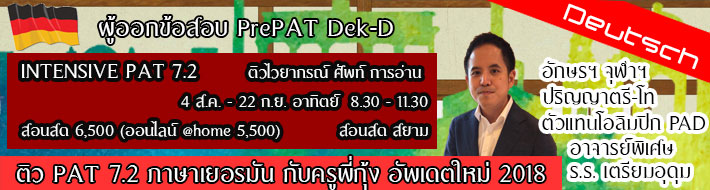
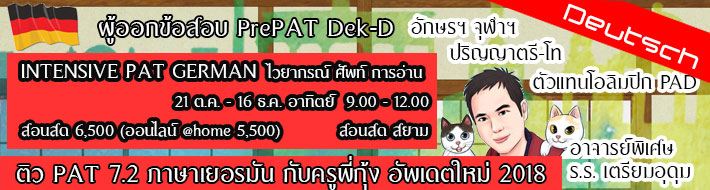
golf

diff --git a/courses.php b/courses.php
@@ -86,16 +86,16 @@
 				<div class="maincol_3"> <!-- schedule --> 
 					
                     
-                    <a href="images/course/PAT_2018_April.png" target="blank"><img src="images/button_ready_sum.png" /></a>
-                    <!-- PRINT --><a href="images/course/PAT_2018_April.png" target="blank"><img src="images/button_print.png" /></a>
+                    <a href="images/wait.gif" target="blank"><img src="images/button_summer_wait.png" /></a>
+                    <!-- PRINT --><a href="images/wait.gif" target="blank"><img src="images/button_print.png" /></a>
                     
                     <a href="images/course/PAT_2018_01.png" target="blank"><img src="images/button_schedule_opensem1.png" /></a>
                     <!-- PRINT --><a href="images/course/PAT_2018_01.png" target="blank"><img src="images/button_print.png" /></a>
                     
                    
                     
-                    <a href="images/wait.gif" target="blank"><img src="images/button_oct_wait.png" /></a>
-                    <!-- PRINT --><a href="images/wait.gif" target="blank"><img src="images/button_print.png" /></a>
+                    <a href="images/course/PAT_2018_01.png" target="blank"><img src="images/button_schedule_openoct.png" /></a>
+                    <!-- PRINT --><a href="images/course/PAT_2018_01.png" target="blank"><img src="images/button_print.png" /></a>
 
                    
                     <a href="images/wait.gif" target="blank"><img src="images/button_sem2_wait.png" /></a>
@@ -139,16 +139,16 @@
 				
                 <div class="maincol_3"> <!-- schedule --> 
 					
-                    <a href="images/course/PAT_2018_April.png" target="blank"><img src="images/button_ready_sum.png" /></a>
-                    <!-- PRINT --><a href="images/course/PAT_2018_April.png" target="blank"><img src="images/button_print.png" /></a>
+                     <a href="images/wait.gif" target="blank"><img src="images/button_summer_wait.png" /></a>
+                    <!-- PRINT --><a href="images/wait.gif" target="blank"><img src="images/button_print.png" /></a>
                     
                     <a href="images/course/PAT_2018_01.png" target="blank"><img src="images/button_schedule_opensem1.png" /></a>
                     <!-- PRINT --><a href="images/course/PAT_2018_01.png" target="blank"><img src="images/button_print.png" /></a>
                     
                    
                     
-                    <a href="images/wait.gif" target="blank"><img src="images/button_oct_wait.png" /></a>
-                    <!-- PRINT --><a href="images/wait.gif" target="blank"><img src="images/button_print.png" /></a>
+                    <a href="images/course/PAT_2018_01.png" target="blank"><img src="images/button_schedule_openoct.png" /></a>
+                    <!-- PRINT --><a href="images/course/PAT_2018_01.png" target="blank"><img src="images/button_print.png" /></a>
 
                    
                     <a href="images/wait.gif" target="blank"><img src="images/button_sem2_wait.png" /></a>
@@ -225,8 +225,8 @@
 					<a href="register.php"><img class="img_right" src="images/button_register.png" /></a>
 				</div>
 				<div class="maincol_3"> <!-- schedule --> 
-					<a href="images/course/JLPT_2018_01.png" target="blank"><img src="images/button_jlpt_open.png" /></a>
-					<!--PRINT --><a href="images/course/JLPT_2018_01.png" target="blank"><img src="images/button_print.png" /></a>
+					<a href="images/course/JLPT_2018_02.png" target="blank"><img src="images/button_jlpt_open.png" /></a>
+					<!--PRINT --><a href="images/course/JLPT_2018_02.png" target="blank"><img src="images/button_print.png" /></a>
 					
                     
                     <a href="images/course/zelf_table.jpg" target="blank"><img src="images/button_sensation_ad3.png" /></a>

diff --git a/index.php b/index.php
@@ -69,6 +69,12 @@
                         
                         
                     </div>
+                    
+                    <div class="maincol_5">
+						<img class="imgshadow" src="images/course/JLPT_2018_02.png" width=600/>
+                        
+                        
+                    </div>
                  
                  
 
